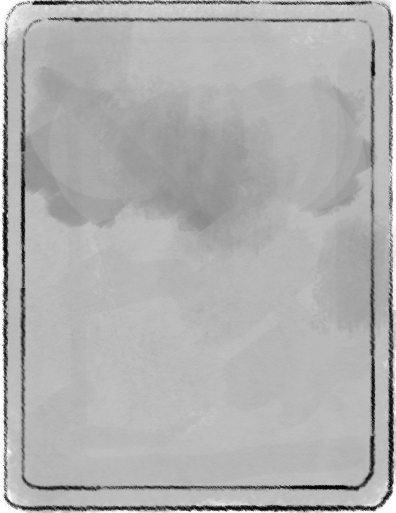
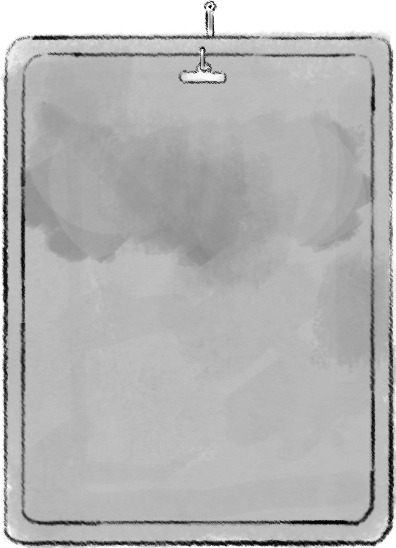
refactor: design project carousel - #3

diff --git a/components/ProjectCarousel.tsx b/components/ProjectCarousel.tsx
@@ -1,4 +1,5 @@
 "use client";
+import Image from "next/image";
 import { useEffect, useRef, useState } from "react";
 import { useRouter } from "next/navigation";
 import type { Project } from "@/app/projects/data";
@@ -29,6 +30,7 @@ export function ProjectCarousel({ projects }: { projects: Project[] }) {
     return stageW / 2 - CARD_W / 2 + slot * GAP;
   }
 
+  // floating animation
   function applyPositions(transition: boolean) {
     const cur = currentRef.current;
     cardRefs.current.forEach((c, i) => {
@@ -49,18 +51,17 @@ export function ProjectCarousel({ projects }: { projects: Project[] }) {
       c.style.opacity = String(opacity);
       c.style.zIndex = String(10 - absSlot);
       c.style.filter = blur > 0 ? `blur(${blur}px)` : "none";
-      c.style.border = isFront
-        ? "1.5px solid rgba(61,171,122,0.45)"
-        : "1.5px solid rgba(61,171,122,0.15)";
+      c.style.border = "none";
       c.style.background = isFront
-        ? "rgba(255,255,255,0.07)"
-        : "rgba(255,255,255,0.03)";
+        ? "rgba(255,255,255,0.08)"
+        : "rgba(255,255,255,0.04)";
 
       const glow = c.querySelector<HTMLDivElement>(".carousel-glow");
       if (glow) glow.style.opacity = isFront ? "1" : "0";
     });
   }
 
+  // revolve carousel animation
   useEffect(() => {
     applyPositions(false);
 
@@ -103,7 +104,7 @@ export function ProjectCarousel({ projects }: { projects: Project[] }) {
 
   return (
     <div className="flex flex-col items-center gap-8 overflow-visible w-full">
-      <div ref={stageRef} className="relative w-full h-380px overflow-visible">
+      <div ref={stageRef} className="relative w-full h-[380px] overflow-visible">
         {projects.map((project, i) => (
           <div
             key={project.slug}
@@ -116,34 +117,49 @@ export function ProjectCarousel({ projects }: { projects: Project[] }) {
                 go(slot > 0 ? 1 : -1);
               }
             }}
-            className="absolute top-0 w-260px h-340px flex flex-col justify-end p-7 gap-1.5 overflow-hidden cursor-pointer"
-            style={{ borderRadius: "24px 24px 32px 32px" }}
+            className="absolute top-0 w-[260px] h-[359px] flex flex-col justify-end p-7 gap-1.5 overflow-hidden cursor-pointer"
+            style={{ borderRadius: "15px" }}
           >
-            <div className="absolute inset-x-0 top-0 h-px bg-linear-to-r from-transparent via-[#3DAB7A]/50 to-transparent" />
+            <div className="pointer-events-none absolute inset-0 opacity-90">
+              <Image
+                src="/project-card.png"
+                alt="Decorative project card"
+                fill
+                className="object-cover"
+              />
+            </div>
+            <div className="absolute inset-x-0 top-0 h-px bg-linear-to-r from-transparent via-transparent to-transparent" />
             <div
               className="carousel-glow absolute inset-0 pointer-events-none transition-opacity duration-500"
               style={{
-                background: "radial-gradient(ellipse at 50% 110%, rgba(61,171,122,0.16), transparent 65%)",
+                background: "radial-gradient(ellipse at 50% 110%, rgba(255,255,255,0.16), transparent 65%)",
                 opacity: 0,
               }}
             />
-            <span className="absolute top-5 right-6 font-mono text-xs text-[#3DAB7A]/30">
+            <span className="absolute top-5 right-6 font-newsreader text-xs text-[#3DAB7A]/30">
               0{i + 1}
             </span>
-            <span className="font-mono text-[9px] tracking-widest uppercase text-[#3DAB7A]/50 mb-0.5">
-              Project
+            <span className="absolute top-10 left-6 font-newsreader text-xs tracking-widest uppercase text-[#283618]/30">
+              ✦✦✦
             </span>
-            <p className="font-mono text-base font-bold text-[#E8F0EC] tracking-tight">
-              {project.title} 
-            </p>
-            <p className="font-mono text-xs text-[#7A9E8A] leading-relaxed">
-              {project.tag}
-            </p>
-            {getSlot(i, current) === 0 && project.longDescription && (
-              <span className="font-mono text-[9px] tracking-widest uppercase text-[#3DAB7A]/40 mt-2">
-                view project →
-              </span>
-            )}
+            <div className="relative flex h-full flex-col justify-start gap-3">
+              <div className="space-y-2">
+                <p className="font-greatvibes text-6xl mt-[23%] mb-0 font-bold text-[#283618] tracking-tight text-center">
+                  {project.title}
+                </p>
+                <p className="font-newsreader text-sm font-bold text-[#283618] leading-relaxed text-center">
+                  {project.tag}
+                </p>
+              </div>
+              <p className="font-newsreader text-xs text-[#283618] leading-relaxed mt-0">
+                {project.description}
+              </p>
+              {getSlot(i, current) === 0 && project.longDescription && (
+                <span className="font-newsreader italic text-[9px] text-right tracking-wide uppercase text-[#283618]/40 mt-2">
+                  view project →
+                </span>
+              )}
+            </div>
           </div>
         ))}
       </div>
@@ -153,7 +169,7 @@ export function ProjectCarousel({ projects }: { projects: Project[] }) {
           type="button"
           aria-label="Previous project"
           onClick={() => go(-1)}
-          className="w-9 h-9 rounded-full backdrop-blur-md bg-white/0.03 border border-[#3DAB7A]/20 text-[#7A9E8A] hover:text-[#E8F0EC] hover:border-[#3DAB7A]/40 transition-colors flex items-center justify-center text-lg"
+          className="w-9 h-9 rounded-full backdrop-blur-md bg-white/0.03 border border-white/10 text-[#7A9E8A] hover:text-[#E8F0EC] hover:border-white/20 transition-colors flex items-center justify-center text-lg"
         >
           ‹
         </button>
@@ -175,7 +191,7 @@ export function ProjectCarousel({ projects }: { projects: Project[] }) {
           type="button"
           aria-label="Next project"
           onClick={() => go(1)}
-          className="w-9 h-9 rounded-full backdrop-blur-md bg-white/0.03 border border-[#3DAB7A]/20 text-[#7A9E8A] hover:text-[#E8F0EC] hover:border-[#3DAB7A]/40 transition-colors flex items-center justify-center text-lg"
+          className="w-9 h-9 rounded-full backdrop-blur-md bg-white/0.03 border border-white/10 text-[#7A9E8A] hover:text-[#E8F0EC] hover:border-white/20 transition-colors flex items-center justify-center text-lg"
         >
           ›
         </button>

diff --git a/app/globals.css b/app/globals.css
@@ -1,3 +1,5 @@
+@import url('https://fonts.googleapis.com/css2?family=Great+Vibes&display=swap');
+@import url('https://fonts.googleapis.com/css2?family=Newsreader:ital,opsz,wght@0,6..72,200..800;1,6..72,200..800&display=swap');
 @import "tailwindcss";
 
 * {
@@ -8,6 +10,19 @@ html,
 body {
   max-width: 100vw;
   overflow-x: hidden;
+}
+
+.font-greatvibes {
+  font-family: "Great Vibes", cursive;
+  font-weight: 400;
+  font-style: normal;
+}
+
+
+.font-newsreader {
+  font-family: "Newsreader", serif;
+  font-optical-sizing: auto;
+  font-weight: 400;
 }
 
 @media (prefers-reduced-motion: reduce) {

diff --git a/app/projects/page.tsx b/app/projects/page.tsx
@@ -2,11 +2,11 @@ import type { Metadata } from "next";
 import ProjectsContent from "./ProjectsContent";
 
 export const metadata: Metadata = {
-  title: "Luke Regalado — Software Engineer",
+  title: "Luke Regalado - Software Engineer",
   description:
     "Portfolio of Luke Regalado, a software engineer building clean, fast, and thoughtful web experiences.",
   openGraph: {
-    title: "Luke Regalado — Software Engineer",
+    title: "Luke Regalado - Software Engineer",
     description:
       "Portfolio of Luke Regalado, a software engineer building clean, fast, and thoughtful web experiences.",
     url: "https://lukeregalado.dev",

diff --git a/app/layout.tsx b/app/layout.tsx
@@ -92,7 +92,7 @@ export default function RootLayout({
 }>) {
   return (
     <html lang="en">
-      <body className={`${geistSans.variable} ${geistMono.variable} antialiased text-[#2A2622] h-lvh flex flex-col`}>
+      <body className={`${geistSans.variable} ${geistMono.variable} antialiased text-[#2A2622] h-min-screen flex flex-col`}>
         <LightbulbProvider>
           <HeaderInner />
 

diff --git a/app/projects/ProjectsContent.tsx b/app/projects/ProjectsContent.tsx
@@ -13,7 +13,7 @@ export default function ProjectsContent() {
     <main className={`min-h-screen flex flex-col overflow-visible transition-colors duration-500 ${
       isBlackedOut ? "bg-[#0e0e0e] text-[#E8F0EC]" : "bg-[#F5F0E8] text-[#2A2622]"
     }`}>
-      <section className="relative flex-1 px-8 md:px-16 lg:px-24 pt-32 pb-24 flex items-center overflow-visible">
+      <section className="relative flex-1 px-8 md:px-16 lg:px-24 pt-32 pb-5 flex items-center overflow-visible">
 
         {/* Left side */}
         <div className="hidden lg:flex flex-col items-start gap-4 w-48 shrink-0">